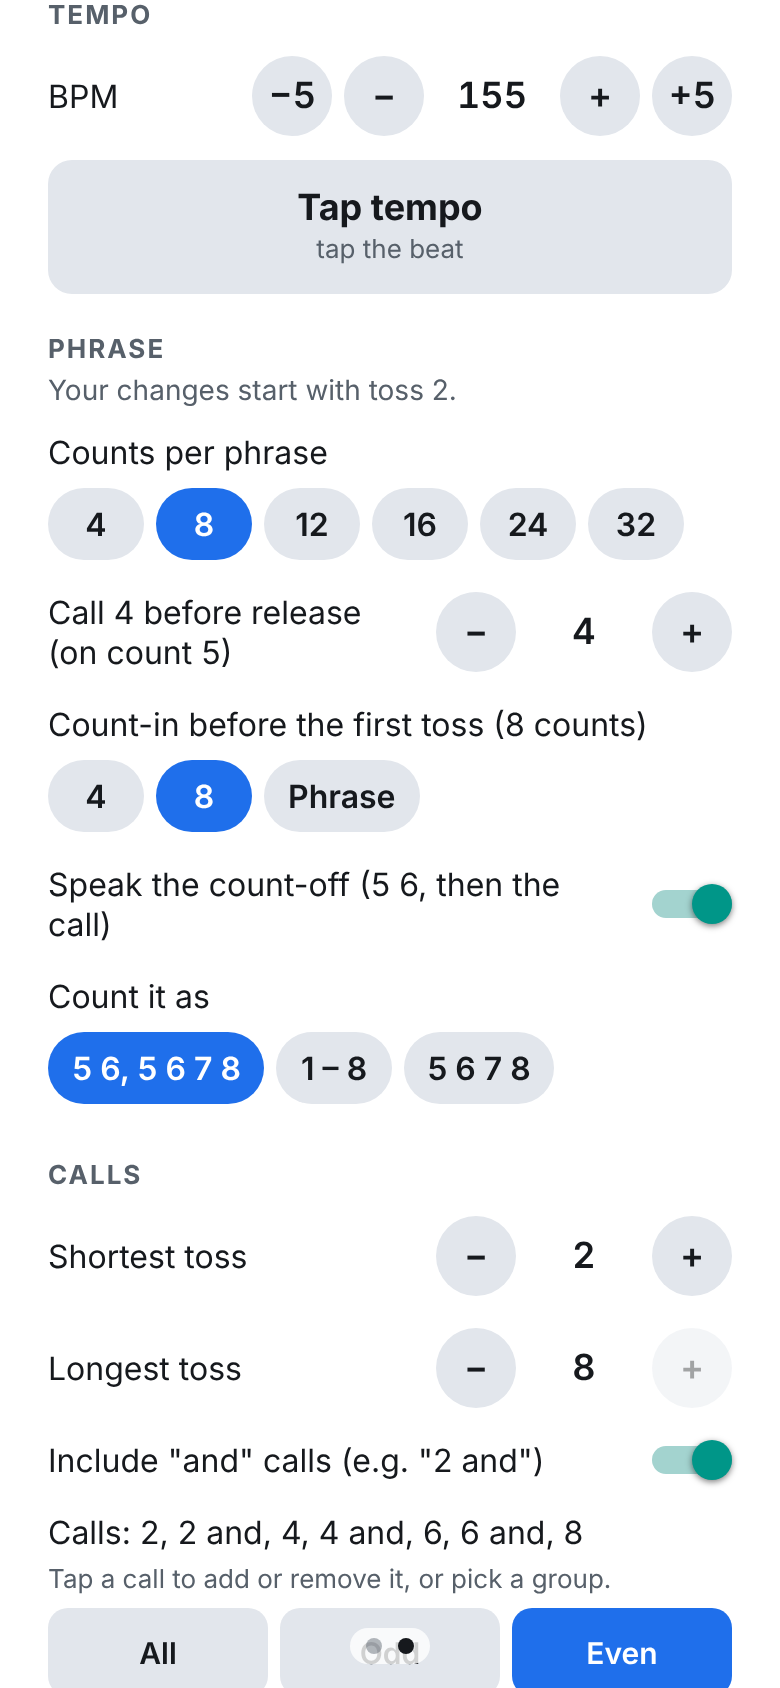
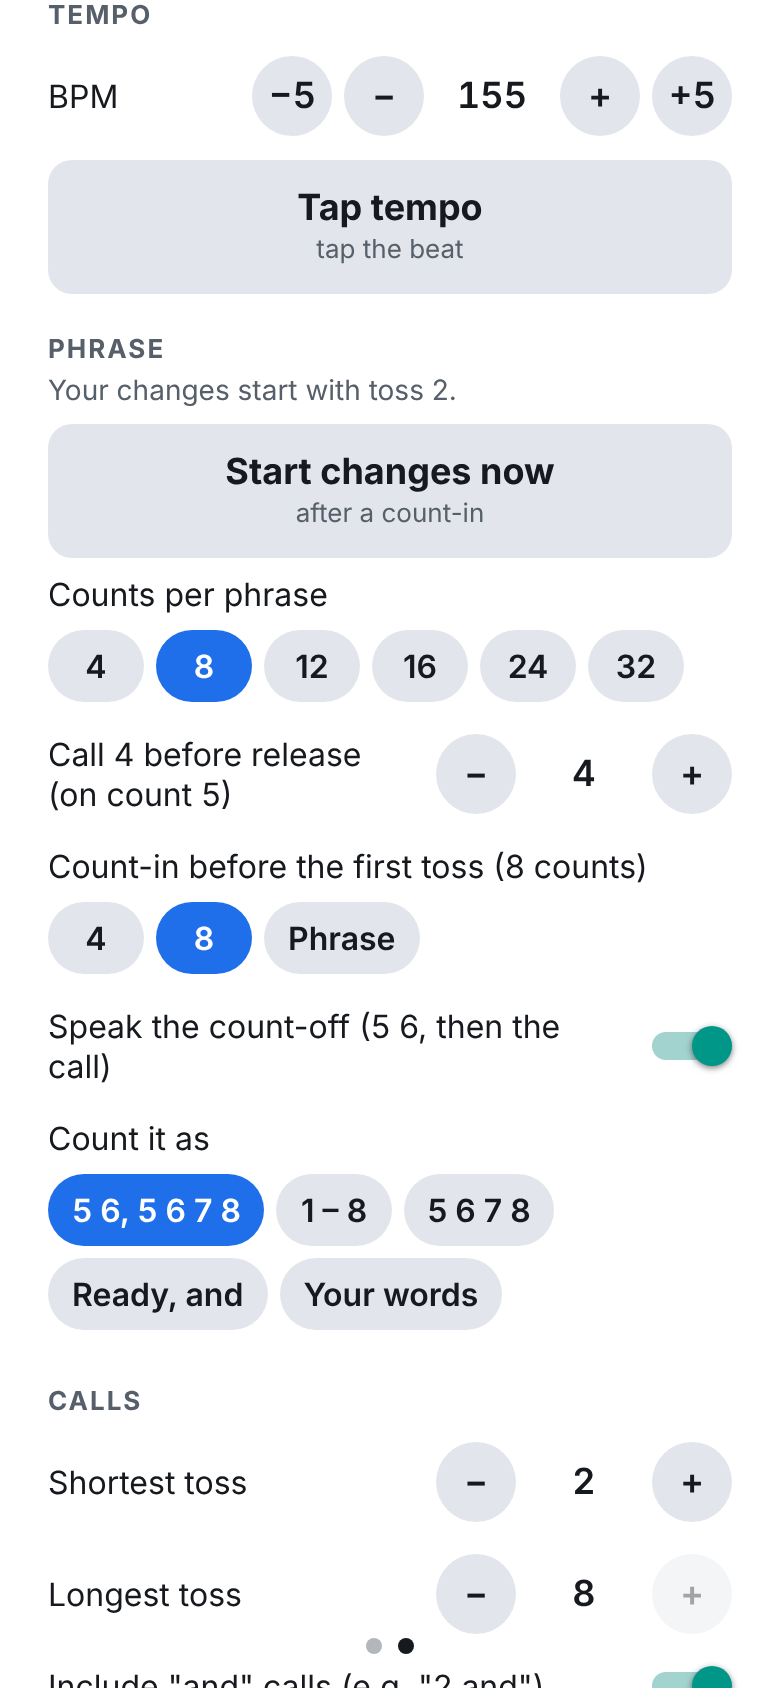
docs: roadmap, changelog, README and screenshots for live voice picks and Start changes now
Claude-Session: https://claude.ai/code/session_01UV53BGGKVe3itf6o1ZCAyp

diff --git a/scripts/screenshots.js b/scripts/screenshots.js
@@ -285,6 +285,13 @@ async function main() {
     await scrollTo(exact(page, 'Tempo'));
     await page.waitForTimeout(200);
     await shot(page, '12-live-change');
+    // A voice can be picked while practicing; the next call is spoken with it.
+    await scrollTo(page.getByTestId('voice-picker'));
+    await page.getByTestId('voice-picker').click();
+    await page.getByTestId('voice-note').waitFor();
+    await page.waitForTimeout(200);
+    await shot(page, '31-voice-while-practicing');
+    await page.getByTestId('voice-picker').click();
     await page.getByTestId('go-to-practice').click();
     await page.getByRole('button', { name: 'Stop practice' }).click();
 

diff --git a/README.md b/README.md
@@ -61,10 +61,12 @@ Below that you can fine-tune:
   it's spoken (Slow / Normal / Fast / Faster) and a **Test voice** button to check speed and
   volume before you start.
 
-Everything can be changed while practicing, without pressing Stop: tempo, sounds and voice speed
-apply right away; phrase, lead counts and calls (or a preset) start with the next toss that
-hasn't been called yet — the toss in the air finishes its phrase first, and Settings says which
-toss the change starts with. Only choosing and testing voices waits for Stop. Combinations that work but may be
+Everything can be changed while practicing, without pressing Stop: tempo, sounds, voice and voice
+speed apply right away (a voice picked mid-practice is heard on the next call); phrase, lead counts
+and calls (or a preset) start with the next toss that hasn't been called yet — the toss in the air
+finishes its phrase first, and Settings says which toss the change starts with. When that's further
+away than a count-in, **Start changes now** restarts the phrase with a fresh count-in instead
+(same session, same stats). Only previews (Test voice, Feel a 5) wait for Stop. Combinations that work but may be
 surprising (e.g. the next call spoken before a long toss is caught) are explained under the
 settings. Settings are saved on the phone and come back the next time you open the app.
 The screen stays on while practicing; if you lock the phone or switch apps, practice stops (the
@@ -92,9 +94,9 @@ practice screen is Chromium's fake camera; on the phone it's you.
 | ---------------------------------------------------------------------- | ------------------------------------------------------------- | --------------------------------------------------------------------------- | ------------------------------------------------------------------ |
 | ![Stats and history after Stop](docs/screenshots/05-stats-history.png) | ![History in edit mode](docs/screenshots/06-history-edit.png) | ![Settings → Calls with Odd picked](docs/screenshots/07-settings-calls.png) | ![Dark theme on the release](docs/screenshots/08-dark-release.png) |
 
-| Saving a preset                                             | Your preset                                                      | Updating it                                                                                  | Changing while practicing                                                                              |
-| ----------------------------------------------------------- | ---------------------------------------------------------------- | -------------------------------------------------------------------------------------------- | ------------------------------------------------------------------------------------------------------ |
-| ![Naming a new preset](docs/screenshots/09-save-preset.png) | ![The saved preset, selected](docs/screenshots/10-my-preset.png) | ![Changed calls: update the preset or save a new one](docs/screenshots/11-update-preset.png) | ![8 counts picked mid-practice: "Your changes start with toss 2"](docs/screenshots/12-live-change.png) |
+| Saving a preset                                             | Your preset                                                      | Updating it                                                                                  | Changing while practicing                                                                                                      |
+| ----------------------------------------------------------- | ---------------------------------------------------------------- | -------------------------------------------------------------------------------------------- | ------------------------------------------------------------------------------------------------------------------------------ |
+| ![Naming a new preset](docs/screenshots/09-save-preset.png) | ![The saved preset, selected](docs/screenshots/10-my-preset.png) | ![Changed calls: update the preset or save a new one](docs/screenshots/11-update-preset.png) | ![8 counts picked mid-practice: "Your changes start with toss 2", with Start changes now](docs/screenshots/12-live-change.png) |
 
 | Sharing History                                                        | History of one preset                                                      | Moving a preset                                                                          | Spoken count-off                                                                |
 | ---------------------------------------------------------------------- | -------------------------------------------------------------------------- | ---------------------------------------------------------------------------------------- | ------------------------------------------------------------------------------- |
@@ -112,9 +114,9 @@ practice screen is Chromium's fake camera; on the phone it's you.
 | ------------------------------------------------------------------------------------------------ | ------------------------------------------------------------------------------------------------------------ | ----------------------------------------------------------------------------------------------- | ---------------------------------------------------------------------------------------------------- |
 | ![Call buzz set to "Buzz the number": a 5 is five taps](docs/screenshots/25-buzz-the-number.png) | ![Call buzz set to "Taps in fours": a 7 is four taps, a pause, three](docs/screenshots/26-taps-in-fours.png) | ![Call to feel: 4& picked, the button says "Feel a 4 and"](docs/screenshots/27-feel-a-call.png) | ![Count it as "Ready, and": two words just before the call](docs/screenshots/28-count-off-ready.png) |
 
-| Your own count-off words                                                                                                  | Left the screen                                                                                                      |
-| ------------------------------------------------------------------------------------------------------------------------- | -------------------------------------------------------------------------------------------------------------------- |
-| ![Count it as "Your words": "hit it" spoken on counts 11–12, then the call](docs/screenshots/29-count-off-your-words.png) | ![Stopped when Guardrr left the screen, after 1 toss, with Resume · toss 2](docs/screenshots/30-left-the-screen.png) |
+| Your own count-off words                                                                                                  | Left the screen                                                                                                      | A voice mid-practice                                                                                                 |
+| ------------------------------------------------------------------------------------------------------------------------- | -------------------------------------------------------------------------------------------------------------------- | -------------------------------------------------------------------------------------------------------------------- |
+| ![Count it as "Your words": "hit it" spoken on counts 11–12, then the call](docs/screenshots/29-count-off-your-words.png) | ![Stopped when Guardrr left the screen, after 1 toss, with Resume · toss 2](docs/screenshots/30-left-the-screen.png) | ![The voice list open while practicing: the next call uses the pick](docs/screenshots/31-voice-while-practicing.png) |
 
 ## Tech
 

diff --git a/CHANGELOG.md b/CHANGELOG.md
@@ -1,5 +1,52 @@
 # Changelog
 
+## 2026-11-22
+
+### Added
+
+- **Pick a voice while practicing** (roadmap: "Live changes: choose a voice while practicing").
+  The voice list no longer locks during practice. Tapping a voice only picks it — no sample,
+  which would talk over the calls — and the next call is spoken with it, so the next call _is_
+  the sample. The note under Voice says _"Pick a voice and hear it on the next call. Stop to test
+  one on its own."_ Test voice and Feel a 5 still wait for Stop.
+  - Engine: `voicePickerMode(running)` (`voices.ts`).
+- **Start changes now** (roadmap: "Live changes: optional apply now"). When a phrase or call
+  change made mid-practice is waiting for a toss that's further away than a count-in, a
+  **Start changes now** button appears under _"Your changes start with toss N."_ It restarts
+  the phrase straight away with a fresh count-in under the new settings and keeps the same
+  session: toss numbers keep counting, stats carry on, and History keeps one entry. Screen
+  readers hear _"Changes start now. Toss 8 is next, after the count-in."_
+  - Engine: `applyNowOffer` (`liveSettings.ts`), `changesStartedNowAnnouncement`.
+  - `usePracticeSession` gains `applyNow()` and `nextCountIndex`.
+- Smoke test: 113 checks (voice list opens mid-practice; the offer appears for a 16 → 8 change
+  during toss 1; after it, the 8-count releases land on clicks 9 and 17; still one session
+  with 3 tosses). New screenshot `31-voice-while-practicing`; `12-live-change` now shows the
+  button.
+- 8 new unit tests (603 total).
+
+### Decisions
+
+- **Only offered when it's actually sooner.** Waiting takes until the pending toss's release;
+  restarting takes the count-in (your count-in setting under the new phrase). The button
+  disappears as the change gets closer, and never shows once the change's call has been spoken
+  (a count-in is never shorter than the lead counts, so waiting is always quicker then).
+- **A fresh count-in, not a mid-phrase jump.** The new settings need their lead counts to speak
+  the first call anyway, and a count-in gives the performer time to reset. It reuses Resume's
+  machinery (`resumeStats`), so the restart gap isn't counted in the session's time.
+- **The toss in the air still counts** as a toss (it was released); only its catch cue is cut.
+  Drop still marks it during the grace counts.
+- **Voice picks don't preview while practicing** rather than previewing quietly between calls:
+  any sample would land near a count-off or call at practice tempos.
+
+### To test on your phone
+
+- Start Standard 16, go to Settings mid-toss, pick 8 counts: **Start changes now** should
+  appear; tap it — a count-in, then 8-count phrases. Stop and check History shows one session.
+- While practicing, open Voice and pick another voice: the next call should be in that voice,
+  with no sample spoken over the clicks.
+- Not verifiable here: real TTS voice switching latency and how the cut-off call sounds; the
+  web build (speech recorded, not played) and the unit tests cover the logic.
+
 ## 2026-11-21
 
 ### Added

diff --git a/ROADMAP.md b/ROADMAP.md
@@ -138,8 +138,14 @@
 - [ ] Custom presets: optionally include sound options (accent, "and" clicks, voice) — today a preset is tempo + toss settings only, like the built-ins.
 - [x] Show which preset a History session used (the preset's name at save time, under each session's date).
 - [ ] History: a session whose phrase length changed mid-practice is saved with the last phrase length; consider saving each segment.
-- [ ] Live changes: choose a voice while practicing (today voice previews wait for Stop because they'd talk over the calls) — e.g. pick without previewing.
-- [ ] Live changes: optional "apply now" that restarts the phrase immediately, for a performer who wants the new drill without finishing the current toss.
+- [x] Live changes: choose a voice while practicing — the list stays open during practice and
+      picks without a sample; the next call is spoken with the new voice.
+- [x] Live changes: optional "apply now" — **Start changes now** under the live note restarts the
+      phrase with a fresh count-in (same session), shown only while that's sooner than waiting.
+- [ ] Start changes now: check on device that the restart sounds clean (the old call or count-off
+      cut off mid-word) and whether the toss in the air should be marked somehow in the stats.
+- [ ] Voice mid-practice: check on device that switching voices between calls doesn't add a delay
+      to the next call (some engines load a voice on first use).
 - [x] History: changing the tempo or preset after Stop no longer relabels the finished session.
 - [ ] History share: check on device what Messages/Mail/Notes do with the CSV text; if a coach
       needs a real attachment, share a .csv file instead (needs `expo-sharing` + `expo-file-system`).
